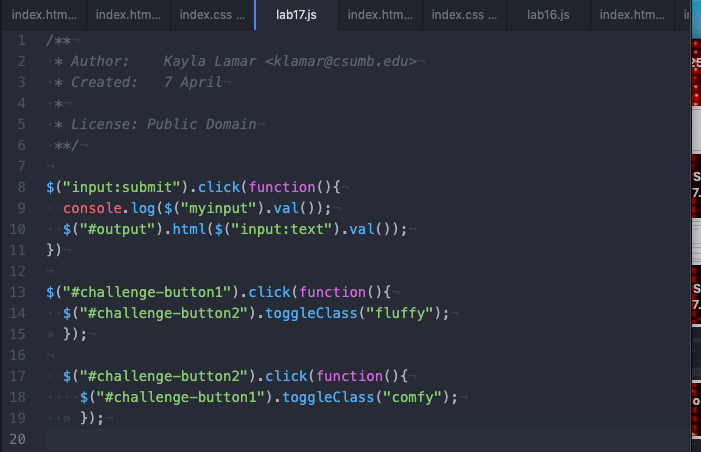
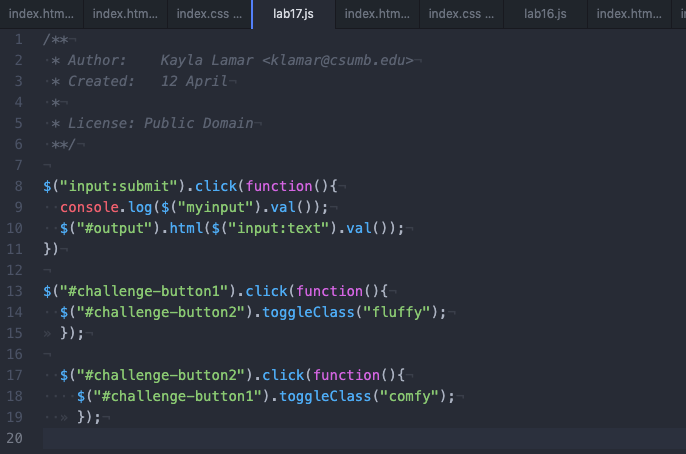
lab17 screenshots

diff --git a/lab17/js/lab17.js b/lab17/js/lab17.js
@@ -1,6 +1,6 @@
 /**
  * Author:    Kayla Lamar <klamar@csumb.edu>
- * Created:   7 April
+ * Created:   12 April
  *
  * License: Public Domain
  **/
